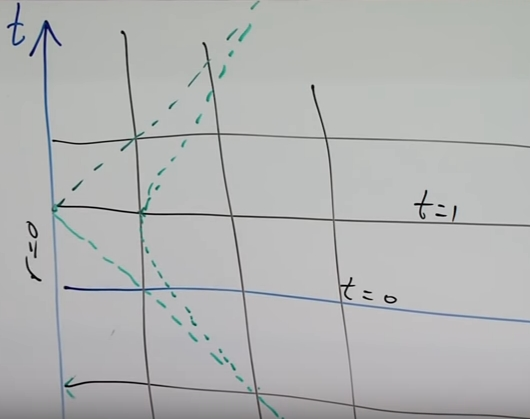
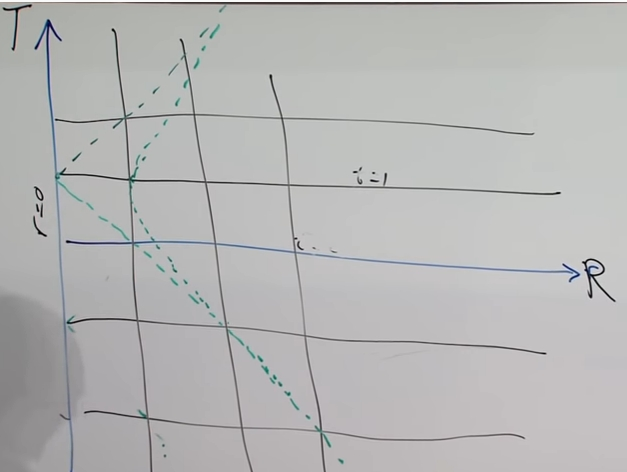
Issue #7 lecture 8 https://youtu.be/q6j180O9H84?list=PLpGHT1n4-mAvcXwzOIz3dHnGZaQP1LEib&t=1431

diff --git a/tm/gr.tex b/tm/gr.tex
@@ -1579,12 +1579,31 @@ This is useful when we have rotational symmetry, when we dpn't want to think abo
 			\caption{A light ray that misses the origin (hyperbola)}\label{fig:gr-8-light-ray-missing-origin-tr}
 			\includegraphics[width=\textwidth]{gr-8-light-ray-missing-origin-tr}
 		\end{subfigure}
-	
+		\begin{subfigure}[t]{0.3\textwidth}
+			\caption{New coordinates: $T^\pm=T\pm R$}\label{fig:gr-8-TpmR}
+			\includegraphics[width=\textwidth]{gr-8-TpmR}
+		\end{subfigure}
 	\end{center}
-
 \end{figure}
 
-\url{https://youtu.be/q6j180O9H84?list=PLpGHT1n4-mAvcXwzOIz3dHnGZaQP1LEib&t=987}
+We introduce new coordinates $T^\pm=T\pm R$, as depicted in Figure \ref{fig:gr-8-TpmR}.
+
+\begin{align*}
+	R=& 0\text{ is the same as}\\
+	T^+ = T^-
+\end{align*}
+
+$T^\pm$ are both lightlike. We introduce two new coordinates, $u\pm = F(t\pm)$, where $F(\pm \infty)-\pm 1$, Figure \ref{fig:gr-8-F}. $F(t)= \tanh t$ will do the job.
+
+\begin{figure}[H]
+	\begin{center}
+		\caption{New lightlike coordinates: $u\pm = F(t\pm)$}\label{fig:gr-8-F}
+		\includegraphics[width=0.5\textwidth]{gr-8-F}
+	\end{center}
+\end{figure}
+
+
+\url{https://youtu.be/q6j180O9H84?list=PLpGHT1n4-mAvcXwzOIz3dHnGZaQP1LEib&t=1431}
 
 \subsection{Formation of a black hole}.
 
